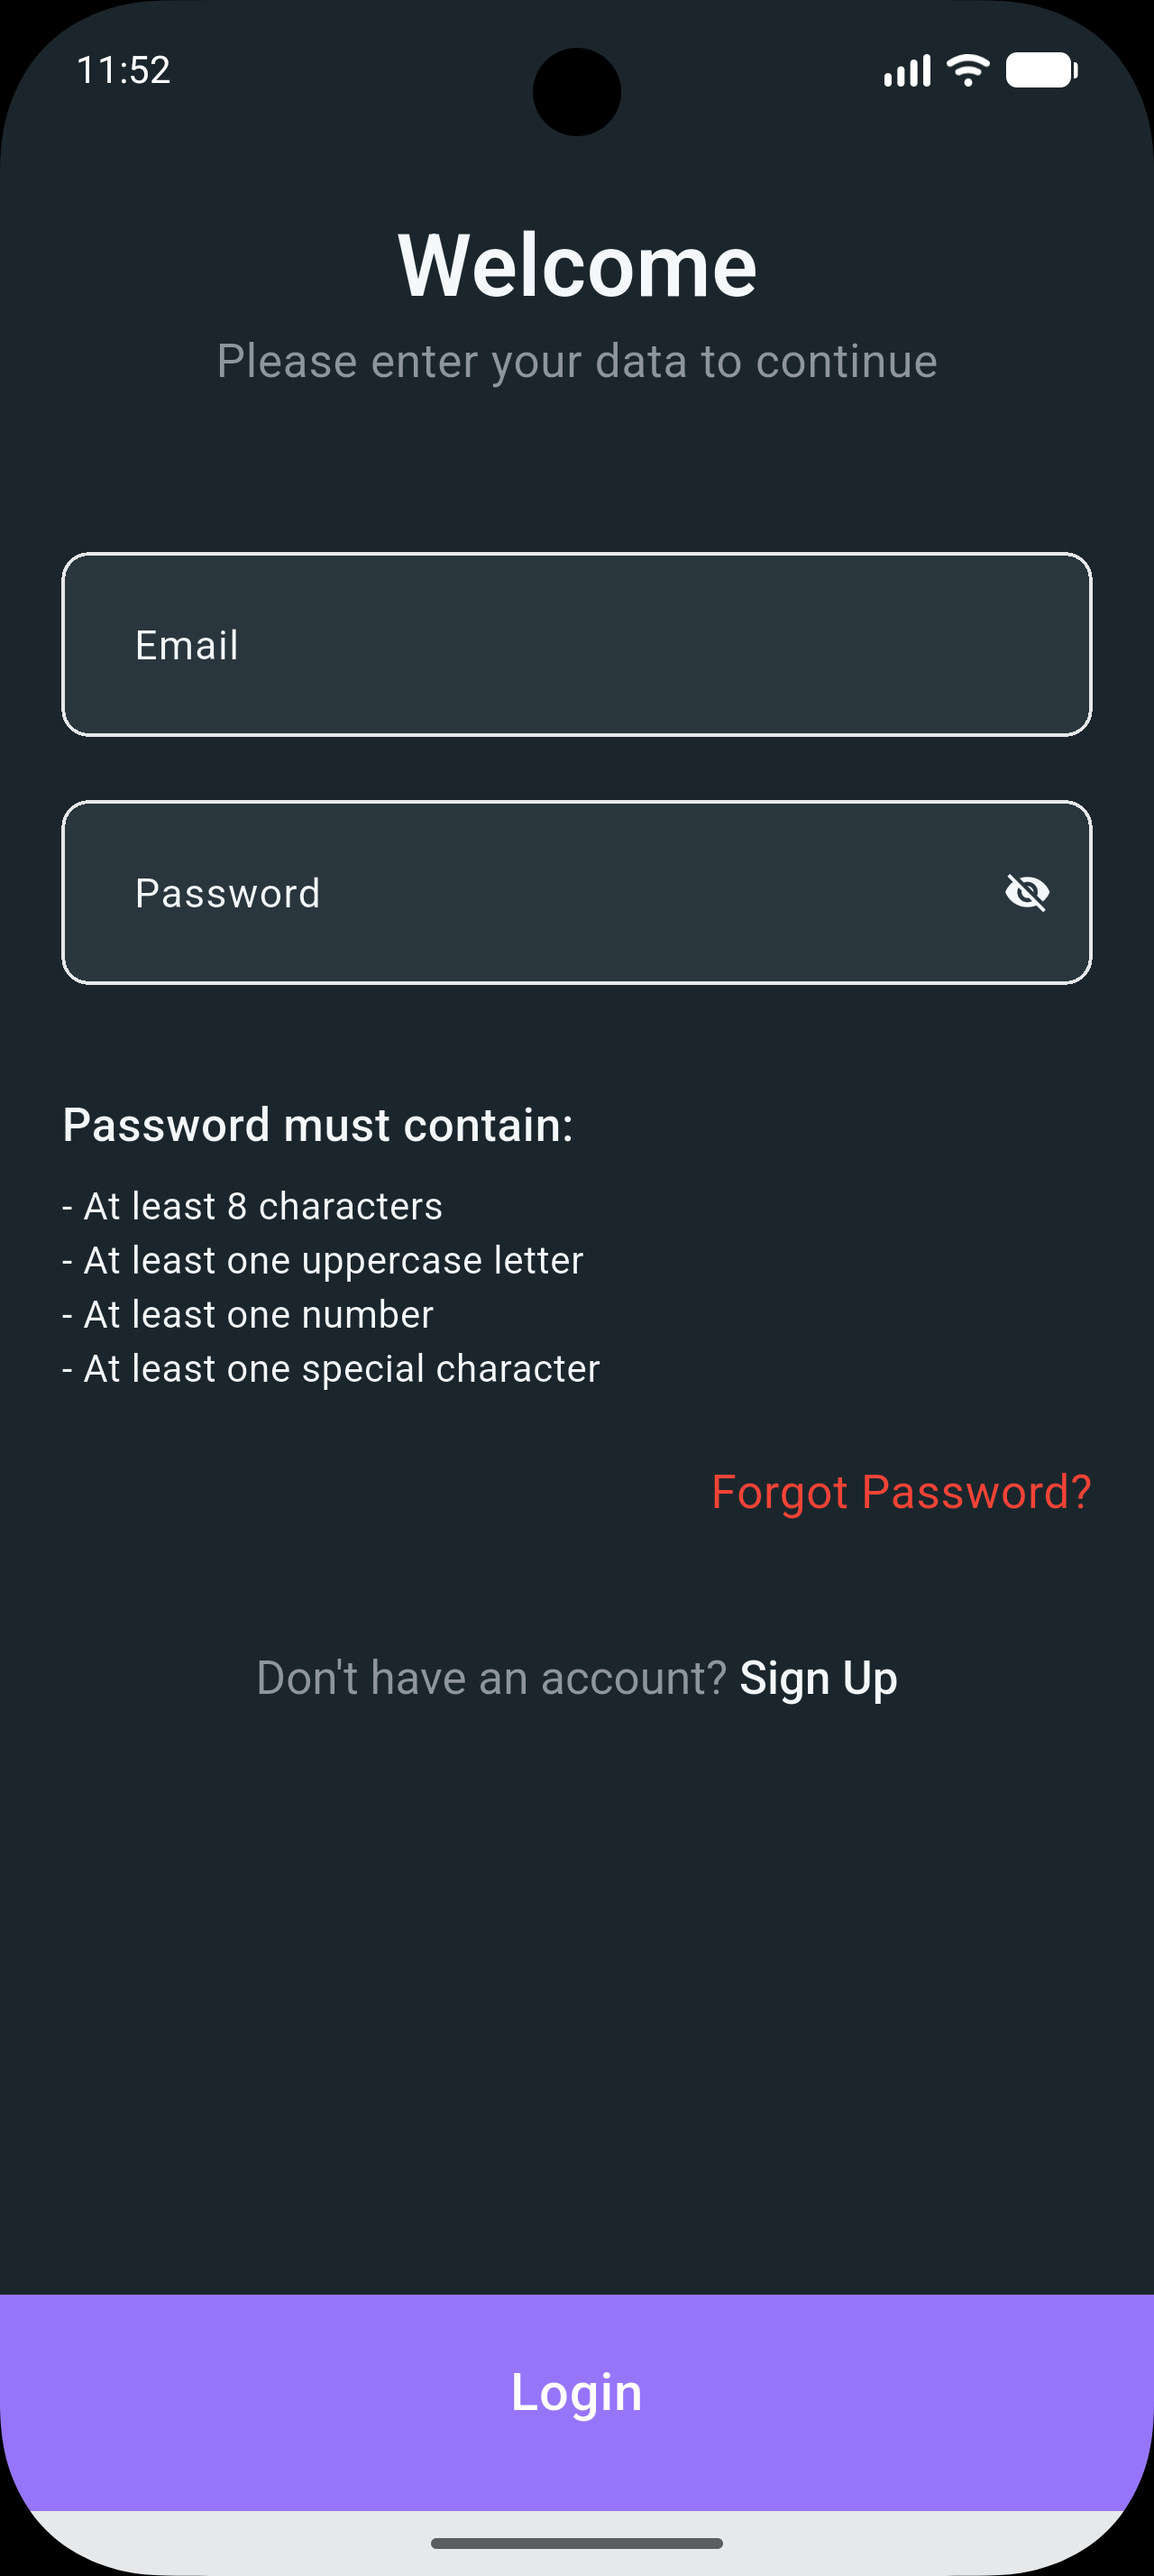
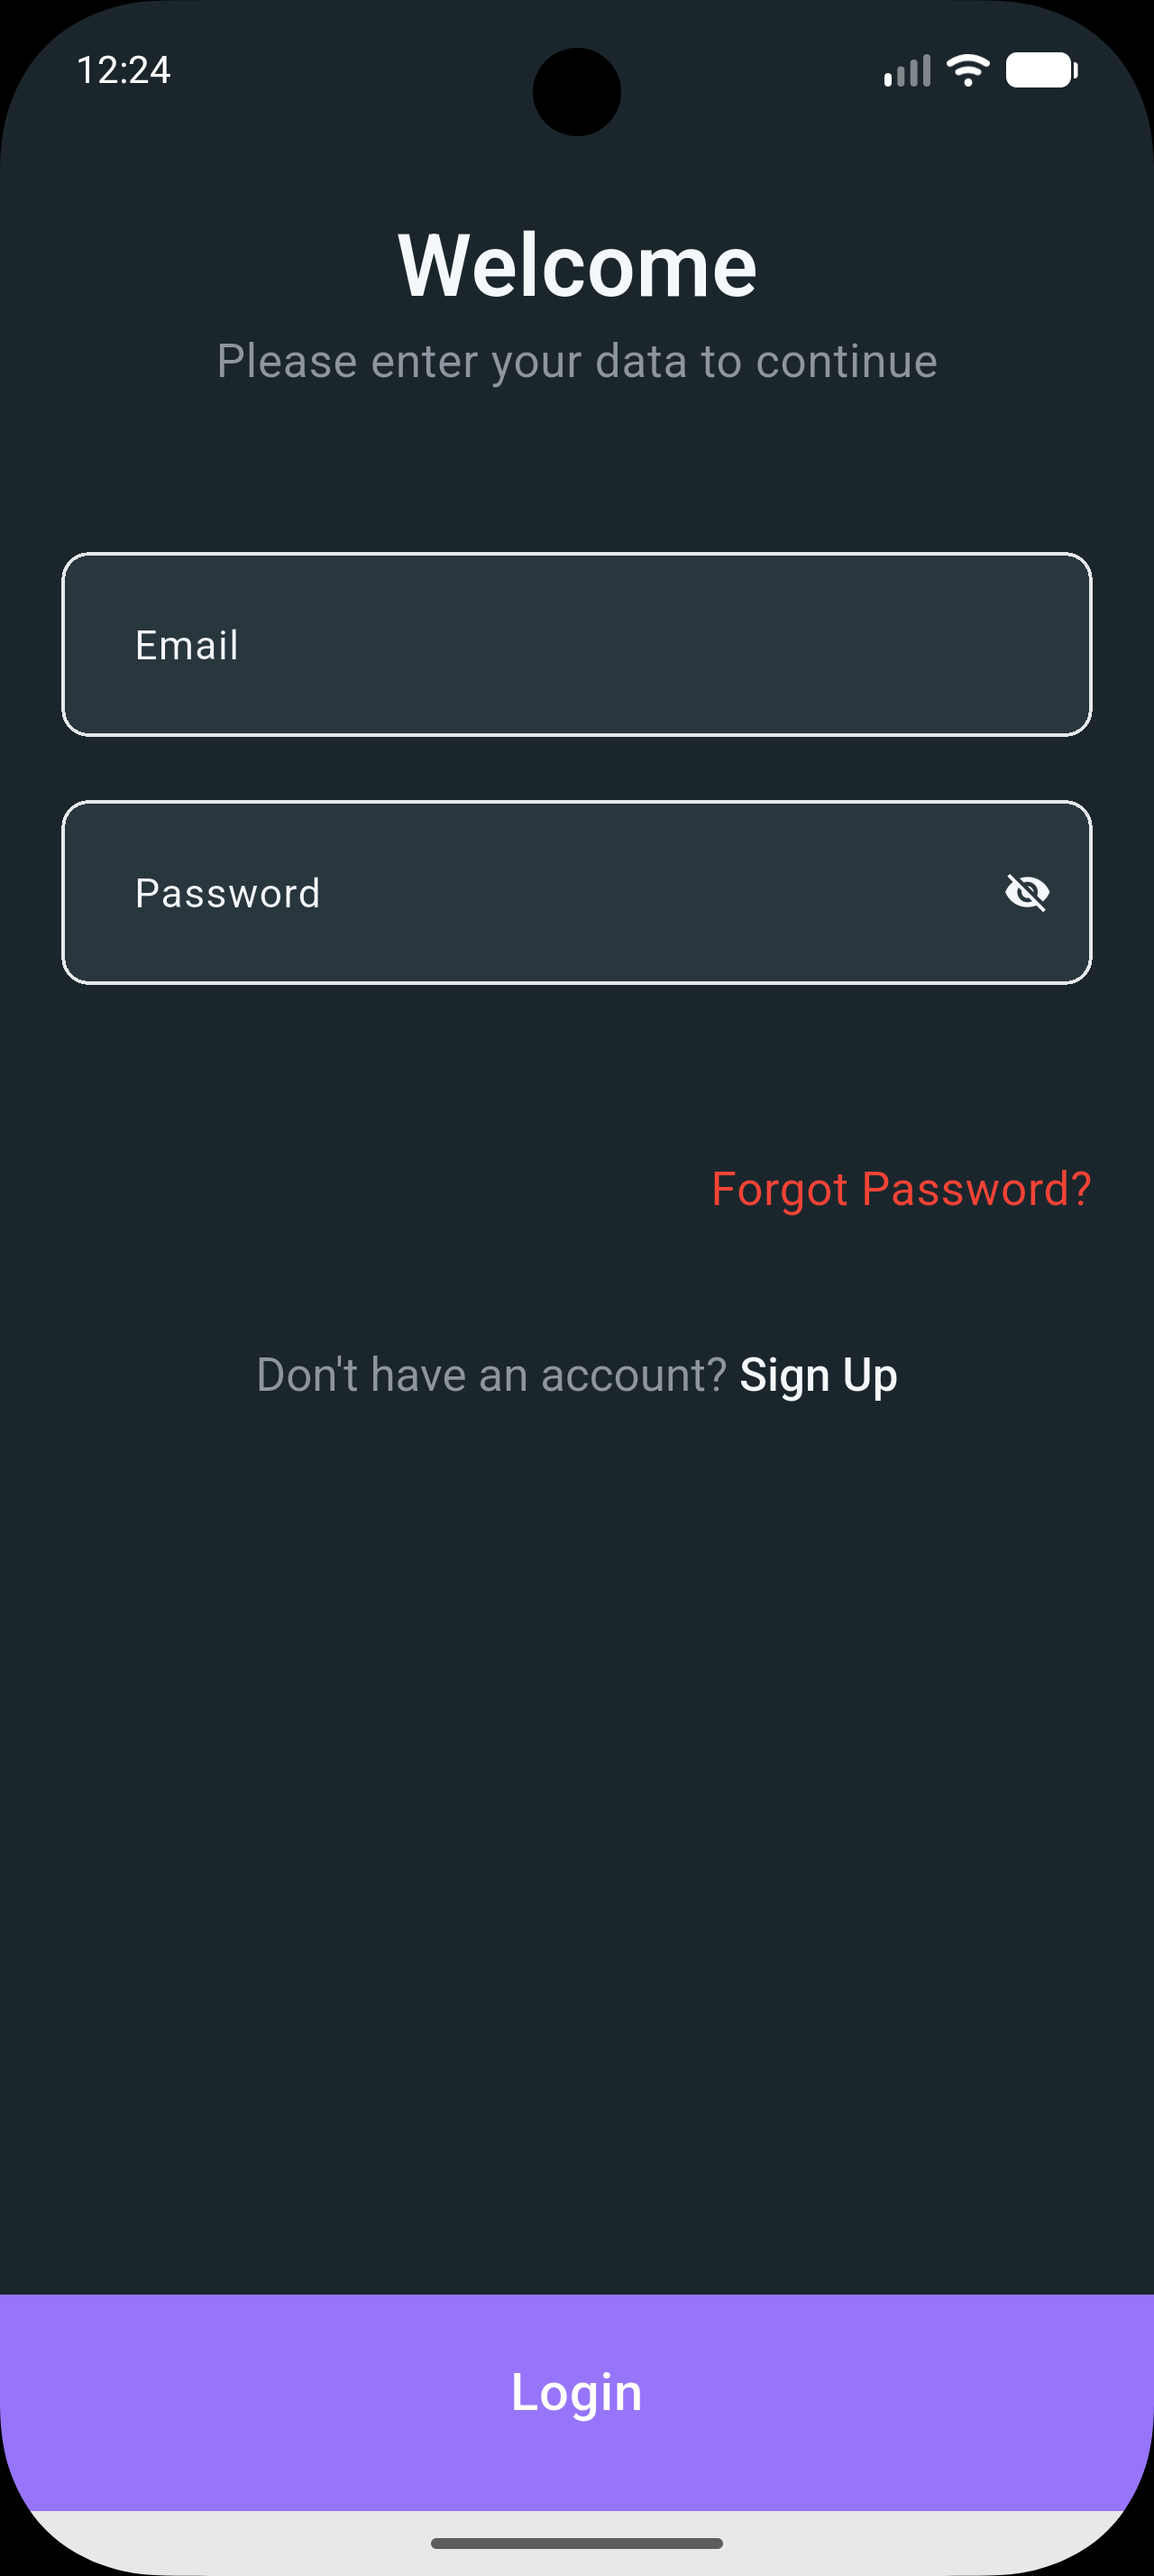
feat: Add password requirements widget to signup screen and update layout

diff --git a/lib/features/login/ui/login_screen.dart b/lib/features/login/ui/login_screen.dart
@@ -5,7 +5,6 @@ import 'package:flutter_screenutil/flutter_screenutil.dart';
 import 'package:laza_shop/core/helpers/extensions.dart';
 import 'package:laza_shop/core/widgets/app_bottom_bar.dart';
 import 'package:laza_shop/features/login/ui/widgets/login_bloc_listner.dart';
-import 'package:laza_shop/features/login/ui/widgets/password_requirements.dart';
 import '../../../core/themes/text_styles.dart';
 import '../logic/login_cubit.dart';
 import 'widgets/login_form.dart';
@@ -35,11 +34,6 @@ class LoginScreen extends StatelessWidget {
                 SizedBox(height: 50.0.h),
                 LoginForm(),
                 SizedBox(height: 10.h),
-                Align(
-                  alignment: Alignment.centerLeft,
-                  child: PasswordRequirements(),
-                ),
-                SizedBox(height: 20.0.h),
                 //ToDo: Forgot Password Screen
                 Align(
                   alignment: Alignment.centerRight,

diff --git a/lib/features/sign_up/ui/signup_screen.dart b/lib/features/sign_up/ui/signup_screen.dart
@@ -7,6 +7,7 @@ import 'package:laza_shop/features/sign_up/ui/widgets/signup_form.dart';
 import '../../../core/helpers/extensions.dart';
 import '../../../core/themes/text_styles.dart';
 import '../logic/signup_cubit.dart';
+import 'widgets/password_requirements.dart';
 
 class SignupScreen extends StatelessWidget {
   const SignupScreen({super.key});
@@ -42,6 +43,11 @@ class SignupScreen extends StatelessWidget {
               Text('Sign Up', style: TextStyles.font28W600),
               SizedBox(height: 50.0.h),
               SignupForm(),
+              SizedBox(height: 20.0.h),
+              Align(
+                alignment: Alignment.centerLeft,
+                child: PasswordRequirements(),
+              ),
               SizedBox(height: 40.0.h),
               Align(
                 alignment: AlignmentGeometry.center,
